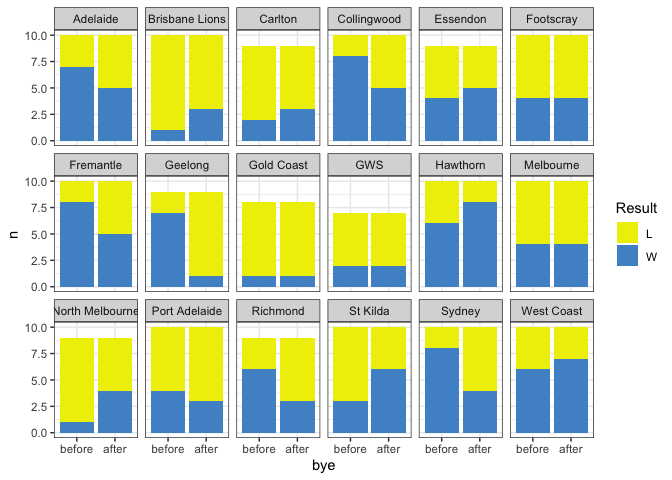
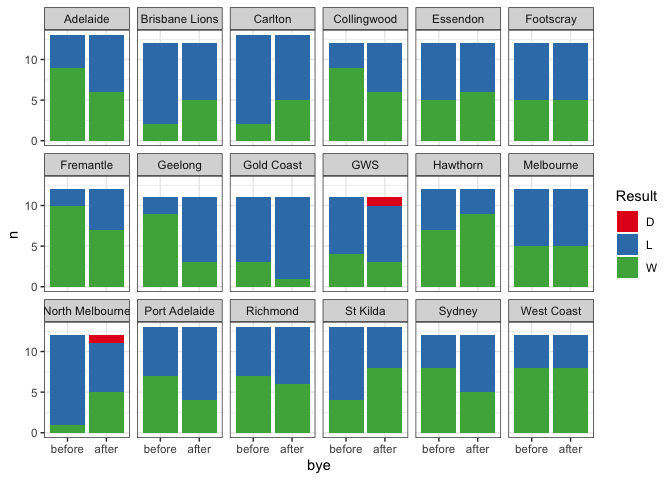
Updated to 2022 R13

diff --git a/code/R/Rmd/bye_scoring/bye_scoring.md b/code/R/Rmd/bye_scoring/bye_scoring.md
@@ -1,7 +1,17 @@
 AFL: wins and losses after the bye
 ================
 Neil Saunders
-2019-06-26 08:57:50
+2022-06-18 18:57:21
+
+-   [Introduction](#introduction)
+-   [Data](#data)
+-   [Processing](#processing)
+-   [Analysis](#analysis)
+    -   [Visualisation](#visualisation)
+    -   [Fisher exact test](#fisher-exact-test)
+    -   [Visualisation by home/away](#visualisation-by-homeaway)
+    -   [Odds](#odds)
+-   [Conclusion](#conclusion)
 
 # Introduction
 
@@ -12,8 +22,8 @@ Can we shed any light as to why?
 
 Our data comes from two sources:
 
-  - `fitzRoy::get_match_results()`
-  - AFL historical odds in Excel format [available from
+-   `fitzRoy::get_match_results()`
+-   AFL historical odds in Excel format [available from
     here](http://www.aussportsbetting.com/data/historical-afl-results-and-odds-data/)
 
 # Processing
@@ -24,9 +34,9 @@ unusual, we need to ask “compared with what?”
 For this study we’ll compare the round before the bye with the week
 after.
 
-A very long dplyr/tidyr chain gives us the relevant games. 257 games
-have been played either side of a bye since 2011. Of these, 174 games
-involved one team in the bye, and 83 involved both teams in the bye.
+A very long dplyr/tidyr chain gives us the relevant games. 327 games
+have been played either side of a bye since 2011. Of these, 218 games
+involved one team in the bye, and 109 involved both teams in the bye.
 
 # Analysis
 
@@ -36,25 +46,29 @@ Let’s confirm that Geelong have indeed not won a game after a bye since
 2011:
 
 | Season | Round | Date       | Venue             | Margin | Status    | Team    | bye    | Result |
-| -----: | :---- | :--------- | :---------------- | -----: | :-------- | :------ | :----- | :----- |
+|-------:|:------|:-----------|:------------------|-------:|:----------|:--------|:-------|:-------|
 |   2011 | R5    | 2011-04-26 | M.C.G.            |     19 | Away.Team | Geelong | before | W      |
 |   2011 | R7    | 2011-05-07 | Kardinia Park     |     66 | Home.Team | Geelong | after  | W      |
 |   2011 | R21   | 2011-08-14 | Football Park     |     11 | Away.Team | Geelong | before | W      |
-|   2011 | R23   | 2011-08-27 | Kardinia Park     |   \-13 | Home.Team | Geelong | after  | L      |
+|   2011 | R23   | 2011-08-27 | Kardinia Park     |    -13 | Home.Team | Geelong | after  | L      |
 |   2012 | R11   | 2012-06-08 | Docklands         |     12 | Away.Team | Geelong | before | W      |
-|   2012 | R13   | 2012-06-22 | S.C.G.            |    \-6 | Away.Team | Geelong | after  | L      |
+|   2012 | R13   | 2012-06-22 | S.C.G.            |     -6 | Away.Team | Geelong | after  | L      |
 |   2013 | R11   | 2013-06-08 | Sydney Showground |     59 | Away.Team | Geelong | before | W      |
-|   2013 | R13   | 2013-06-23 | Gabba             |    \-5 | Away.Team | Geelong | after  | L      |
+|   2013 | R13   | 2013-06-23 | Gabba             |     -5 | Away.Team | Geelong | after  | L      |
 |   2014 | R7    | 2014-05-04 | M.C.G.            |      5 | Home.Team | Geelong | before | W      |
-|   2014 | R9    | 2014-05-17 | Subiaco           |   \-32 | Away.Team | Geelong | after  | L      |
-|   2016 | R14   | 2016-06-25 | Docklands         |    \-3 | Away.Team | Geelong | before | L      |
-|   2016 | R16   | 2016-07-08 | Kardinia Park     |   \-38 | Home.Team | Geelong | after  | L      |
+|   2014 | R9    | 2014-05-17 | Subiaco           |    -32 | Away.Team | Geelong | after  | L      |
+|   2016 | R14   | 2016-06-25 | Docklands         |     -3 | Away.Team | Geelong | before | L      |
+|   2016 | R16   | 2016-07-08 | Kardinia Park     |    -38 | Home.Team | Geelong | after  | L      |
 |   2017 | R11   | 2017-06-02 | Kardinia Park     |     22 | Home.Team | Geelong | before | W      |
-|   2017 | R13   | 2017-06-15 | Subiaco           |   \-13 | Away.Team | Geelong | after  | L      |
-|   2018 | R13   | 2018-06-17 | M.C.G.            |   \-18 | Home.Team | Geelong | before | L      |
-|   2018 | R15   | 2018-06-29 | Docklands         |    \-2 | Away.Team | Geelong | after  | L      |
+|   2017 | R13   | 2017-06-15 | Subiaco           |    -13 | Away.Team | Geelong | after  | L      |
+|   2018 | R13   | 2018-06-17 | M.C.G.            |    -18 | Home.Team | Geelong | before | L      |
+|   2018 | R15   | 2018-06-29 | Docklands         |     -2 | Away.Team | Geelong | after  | L      |
 |   2019 | R12   | 2019-06-07 | M.C.G.            |     67 | Away.Team | Geelong | before | W      |
-|   2019 | R14   | 2019-06-22 | Adelaide Oval     |   \-11 | Away.Team | Geelong | after  | L      |
+|   2019 | R14   | 2019-06-22 | Adelaide Oval     |    -11 | Away.Team | Geelong | after  | L      |
+|   2020 | R14   | 2020-08-28 | Carrara           |     11 | Away.Team | Geelong | before | W      |
+|   2020 | R16   | 2020-09-06 | Gabba             |     66 | Home.Team | Geelong | after  | W      |
+|   2021 | R11   | 2021-05-29 | M.C.G.            |     10 | Away.Team | Geelong | before | W      |
+|   2021 | R13   | 2021-06-10 | Adelaide Oval     |     21 | Away.Team | Geelong | after  | W      |
 
 Various ways to visualise this:
 
@@ -68,26 +82,32 @@ bye with the count after the bye.
 The result is significant for Geelong alone at *p* \< 0.05, albeit with
 a very wide confidence interval.
 
+    ## Warning: All elements of `...` must be named.
+    ## Did you want `data = -Team`?
+
+    ## Warning: `cols` is now required when using unnest().
+    ## Please use `cols = c(summary)`
+
 |      Team       | estimate | p.value | conf.low | conf.high |
-| :-------------: | :------: | :-----: | :------: | :-------: |
-|     Geelong     |   21.4   | 0.01522 |  1.533   |   1396    |
-|     Sydney      |   5.43   | 0.1698  |  0.6027  |   79.83   |
-| North Melbourne |  0.1736  | 0.2941  | 0.002835 |   2.438   |
-|    Richmond     |   3.68   | 0.3469  |  0.4059  |   43.34   |
-|   Collingwood   |  3.719   | 0.3498  |  0.4048  |   53.81   |
-|    Fremantle    |  3.719   | 0.3498  |  0.4048  |   53.81   |
-|    St Kilda     |  0.3054  | 0.3698  | 0.03005  |   2.464   |
-| Brisbane Lions  |  0.2769  |  0.582  | 0.00446  |   4.346   |
-|    Hawthorn     |  0.3942  | 0.6285  | 0.02689  |   3.886   |
-|    Adelaide     |  2.234   | 0.6499  |  0.2725  |   21.94   |
-|     Carlton     |  0.5896  |    1    | 0.03705  |   7.114   |
-|    Essendon     |  0.6562  |    1    | 0.06909  |   5.759   |
-|    Footscray    |    1     |    1    |  0.1188  |   8.418   |
-|   Gold Coast    |    1     |    1    | 0.01117  |   89.51   |
-|       GWS       |    1     |    1    | 0.05191  |   19.26   |
-|    Melbourne    |    1     |    1    |  0.1188  |   8.418   |
-|  Port Adelaide  |  1.521   |    1    |  0.1731  |   15.02   |
-|   West Coast    |  0.6573  |    1    |  0.0666  |   5.776   |
+|:---------------:|:--------:|:-------:|:--------:|:---------:|
+|     Geelong     |   10.4   | 0.02997 |   1.19   |   157.5   |
+| North Melbourne |  0.1206  | 0.06865 | 0.002126 |   1.434   |
+|    St Kilda     |  0.2928  | 0.2377  | 0.04018  |   1.798   |
+| Brisbane Lions  |  0.2956  | 0.3707  | 0.02204  |   2.475   |
+|    Fremantle    |  3.383   | 0.3707  |  0.4041  |   45.38   |
+|     Carlton     |  0.3053  | 0.3783  | 0.02334  |   2.475   |
+|   Collingwood   |  2.861   | 0.4003  |  0.4075  |   25.13   |
+|     Sydney      |  2.678   | 0.4136  |  0.4098  |   20.26   |
+|    Adelaide     |  2.526   | 0.4283  |  0.4121  |   17.79   |
+|  Port Adelaide  |  2.526   | 0.4283  |  0.4121  |   17.79   |
+|   Gold Coast    |  3.538   | 0.5865  |  0.2311  |   215.8   |
+|    Hawthorn     |  0.4819  | 0.6668  | 0.05464  |   3.536   |
+|    Essendon     |  0.7244  |    1    |  0.1072  |   4.678   |
+|    Footscray    |    1     |    1    |  0.1486  |   6.73    |
+|       GWS       |  1.315   |    1    |  0.1533  |   12.6    |
+|    Melbourne    |    1     |    1    |  0.1486  |   6.73    |
+|    Richmond     |  1.345   |    1    |  0.2272  |   8.26    |
+|   West Coast    |    1     |    1    |  0.1324  |   7.554   |
 
 ## Visualisation by home/away
 
@@ -104,39 +124,40 @@ struggle to win regardless of venue, opponent or proximity to a bye
 
 Note that several of the lost post-bye away games were at venues
 traditionally viewed as being difficult to win at for an away team
-(Adelaide,
-Perth):
+(Adelaide, Perth):
 
 | Season | Round | Date       | Venue         | Margin | Status    | Team    | bye   | Result |
-| -----: | :---- | :--------- | :------------ | -----: | :-------- | :------ | :---- | :----- |
-|   2012 | R13   | 2012-06-22 | S.C.G.        |    \-6 | Away.Team | Geelong | after | L      |
-|   2013 | R13   | 2013-06-23 | Gabba         |    \-5 | Away.Team | Geelong | after | L      |
-|   2014 | R9    | 2014-05-17 | Subiaco       |   \-32 | Away.Team | Geelong | after | L      |
-|   2017 | R13   | 2017-06-15 | Subiaco       |   \-13 | Away.Team | Geelong | after | L      |
-|   2018 | R15   | 2018-06-29 | Docklands     |    \-2 | Away.Team | Geelong | after | L      |
-|   2019 | R14   | 2019-06-22 | Adelaide Oval |   \-11 | Away.Team | Geelong | after | L      |
+|-------:|:------|:-----------|:--------------|-------:|:----------|:--------|:------|:-------|
+|   2012 | R13   | 2012-06-22 | S.C.G.        |     -6 | Away.Team | Geelong | after | L      |
+|   2013 | R13   | 2013-06-23 | Gabba         |     -5 | Away.Team | Geelong | after | L      |
+|   2014 | R9    | 2014-05-17 | Subiaco       |    -32 | Away.Team | Geelong | after | L      |
+|   2017 | R13   | 2017-06-15 | Subiaco       |    -13 | Away.Team | Geelong | after | L      |
+|   2018 | R15   | 2018-06-29 | Docklands     |     -2 | Away.Team | Geelong | after | L      |
+|   2019 | R14   | 2019-06-22 | Adelaide Oval |    -11 | Away.Team | Geelong | after | L      |
+|   2021 | R13   | 2021-06-10 | Adelaide Oval |     21 | Away.Team | Geelong | after | W      |
 
 Also, three of the losses were against a side also coming off the bye,
-but playing at
-home:
+but playing at home:
 
-| Season | Round | Date       | Venue   | Margin | Status    | Team    | bye   | Result |
-| -----: | :---- | :--------- | :------ | -----: | :-------- | :------ | :---- | :----- |
-|   2012 | R13   | 2012-06-22 | S.C.G.  |    \-6 | Away.Team | Geelong | after | L      |
-|   2014 | R9    | 2014-05-17 | Subiaco |   \-32 | Away.Team | Geelong | after | L      |
-|   2017 | R13   | 2017-06-15 | Subiaco |   \-13 | Away.Team | Geelong | after | L      |
+| Season | Round | Date       | Venue         | Margin | Status    | Team    | bye   | Result |
+|-------:|:------|:-----------|:--------------|-------:|:----------|:--------|:------|:-------|
+|   2012 | R13   | 2012-06-22 | S.C.G.        |     -6 | Away.Team | Geelong | after | L      |
+|   2014 | R9    | 2014-05-17 | Subiaco       |    -32 | Away.Team | Geelong | after | L      |
+|   2017 | R13   | 2017-06-15 | Subiaco       |    -13 | Away.Team | Geelong | after | L      |
+|   2021 | R13   | 2021-06-10 | Adelaide Oval |     21 | Away.Team | Geelong | after | W      |
 
-For comparison, the away games before
-byes:
+For comparison, the away games before byes:
 
 | Season | Round | Date       | Venue             | Margin | Status    | Team    | bye    | Result |
-| -----: | :---- | :--------- | :---------------- | -----: | :-------- | :------ | :----- | :----- |
+|-------:|:------|:-----------|:------------------|-------:|:----------|:--------|:-------|:-------|
 |   2011 | R5    | 2011-04-26 | M.C.G.            |     19 | Away.Team | Geelong | before | W      |
 |   2011 | R21   | 2011-08-14 | Football Park     |     11 | Away.Team | Geelong | before | W      |
 |   2012 | R11   | 2012-06-08 | Docklands         |     12 | Away.Team | Geelong | before | W      |
 |   2013 | R11   | 2013-06-08 | Sydney Showground |     59 | Away.Team | Geelong | before | W      |
-|   2016 | R14   | 2016-06-25 | Docklands         |    \-3 | Away.Team | Geelong | before | L      |
+|   2016 | R14   | 2016-06-25 | Docklands         |     -3 | Away.Team | Geelong | before | L      |
 |   2019 | R12   | 2019-06-07 | M.C.G.            |     67 | Away.Team | Geelong | before | W      |
+|   2020 | R14   | 2020-08-28 | Carrara           |     11 | Away.Team | Geelong | before | W      |
+|   2021 | R11   | 2021-05-29 | M.C.G.            |     10 | Away.Team | Geelong | before | W      |
 
 ## Odds
 
@@ -147,17 +168,18 @@ For this we join the dataset with historical betting odds. Their
 accuracy is taken at face value.
 
 Note that Geelong have never won after a bye when expected to lose. Of
-their 8 losses after the bye, 2 were expected and 6 were not.
+their 8 losses after the bye, 2 were expected and 6 were not. Joining,
+by = c(“Date”, “Team”)
 
-| bye    | Result | Expected | n |
-| :----- | :----- | :------- | -: |
-| after  | L      | L        | 2 |
-| after  | L      | W        | 6 |
-| after  | W      | W        | 1 |
-| before | L      | L        | 1 |
-| before | L      | W        | 1 |
-| before | W      | L        | 1 |
-| before | W      | W        | 6 |
+| bye    | Result | Expected |   n |
+|:-------|:-------|:---------|----:|
+| after  | L      | L        |   2 |
+| after  | L      | W        |   6 |
+| after  | W      | W        |   3 |
+| before | L      | L        |   1 |
+| before | L      | W        |   1 |
+| before | W      | L        |   1 |
+| before | W      | W        |   8 |
 
 # Conclusion
 
